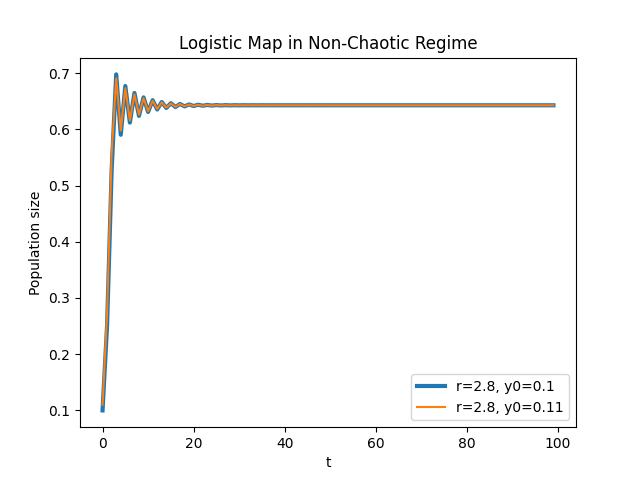
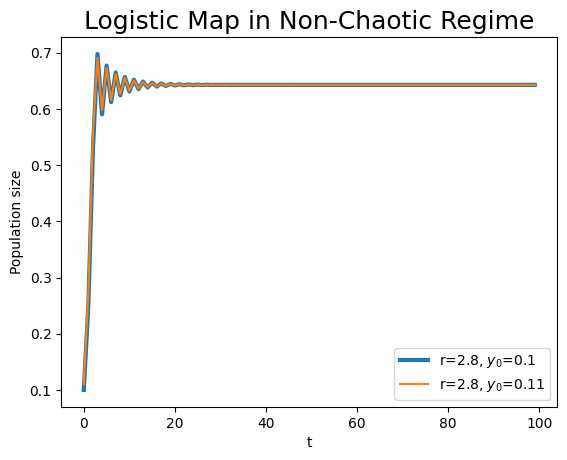
updating figure formatting

Changed region(s): [[0.0, 0.0, 0.9894, 0.9435], [0.5097, 0.9435, 0.5697, 0.9739]]

diff --git a/part1/fig1a/logistic_map.py b/part1/fig1a/logistic_map.py
@@ -19,7 +19,6 @@ import sys
 def log(x):
     return math.log(x,2)
 
-draw = True
 dpi = 100
 
 resolution = 100
@@ -55,18 +54,17 @@ ys = []
 r = 2.8
 
 y0 = 0.1
-x, y = plot_func(r, y0, f"r={r}, y0={y0}", thickness=3)
+x, y = plot_func(r, y0, f"r={r}, $y_{0}$={y0}", thickness=3)
 xs.append(x); ys.append(y)
 
 y0 = 0.11
-x, y = plot_func(r, y0, f"r={r}, y0={y0}")
+x, y = plot_func(r, y0, f"r={r}, $y_{0}$={y0}")
 xs.append(x); ys.append(y)
 
 plt.rcParams["figure.figsize"] = (16,12)
 plt.legend(loc="lower right")
-plt.title("Logistic Map in Non-Chaotic Regime")
-if draw:
-    plt.savefig('fig_1a_non_chaotic.png', dpi=dpi)
+plt.title("Logistic Map in Non-Chaotic Regime", fontsize=18)
+plt.savefig('fig_1a_non_chaotic.png', dpi=dpi, bbox_inches="tight")
 
 plt.clf()
 ########################################
@@ -75,18 +73,17 @@ plt.clf()
 r = 3.8
 
 y0 = 0.1
-x, y = plot_func(r, y0, f"r={r}, y0={y0}")
+x, y = plot_func(r, y0, f"r={r}, $y_{0}$={y0}")
 xs.append(x); ys.append(y)
 
 y0 = 0.101
-x, y = plot_func(r, y0, f"r={r}, y0={y0}")
+x, y = plot_func(r, y0, f"r={r}, $y_{0}$={y0}")
 xs.append(x); ys.append(y)
 
 plt.rcParams["figure.figsize"] = (16,12)
 plt.legend(loc="lower right")
-plt.title("Logistic Map in Chaotic Regime")
-if draw:
-    plt.savefig('fig_1a_chaotic.png', dpi=dpi)
+plt.title("Logistic Map in Chaotic Regime", fontsize=18)
+plt.savefig('fig_1a_chaotic.png', dpi=dpi, bbox_inches="tight")
 
 plt.clf()
 ########################################
@@ -147,27 +144,23 @@ n = find_divergence(xs[2],xs[3], ys[2], ys[3])
 
 ################Non-Chaotic#############
 venn_diagram(ys[0], ys[1], n)
-plt.title("Entropy of Beginning of Non-Chaotic Regime")
-if draw:
-    plt.savefig('fig_1b_non_chaotic_beginning.png', dpi=dpi)
+plt.title("Entropy of Beginning of Non-Chaotic Regime", fontsize=18)
+plt.savefig('fig_1b_non_chaotic_beginning.png', dpi=dpi, bbox_inches="tight")
 plt.clf()
 venn_diagram(ys[0], ys[1], n, beginning=False)
-plt.title("Entropy of End of Non-Chaotic Regime")
-if draw:
-    plt.savefig('fig_1b_non_chaotic_end.png', dpi=dpi)
+plt.title("Entropy of End of Non-Chaotic Regime", fontsize=18)
+plt.savefig('fig_1b_non_chaotic_end.png', dpi=dpi, bbox_inches="tight")
 plt.clf()
 ########################################
 
 ################Chaotic#################
 venn_diagram(ys[2], ys[3], n)
-plt.title("Entropy of Beginning of Chaotic Regime")
-if draw:
-    plt.savefig('fig_1b_chaotic_beginning.png', dpi=dpi)
+plt.title("Entropy of Beginning of Chaotic Regime", fontsize=18)
+plt.savefig('fig_1b_chaotic_beginning.png', dpi=dpi, bbox_inches="tight")
 plt.clf()
 venn_diagram(ys[2], ys[3], n, beginning=False)
-plt.title("Entropy of End of Chaotic Regime")
-if draw:
-    plt.savefig('fig_1b_chaotic_end.png', dpi=dpi)
+plt.title("Entropy of End of Chaotic Regime", fontsize=18)
+plt.savefig('fig_1b_chaotic_end.png', dpi=dpi, bbox_inches="tight")
 plt.clf()
 ########################################
 
